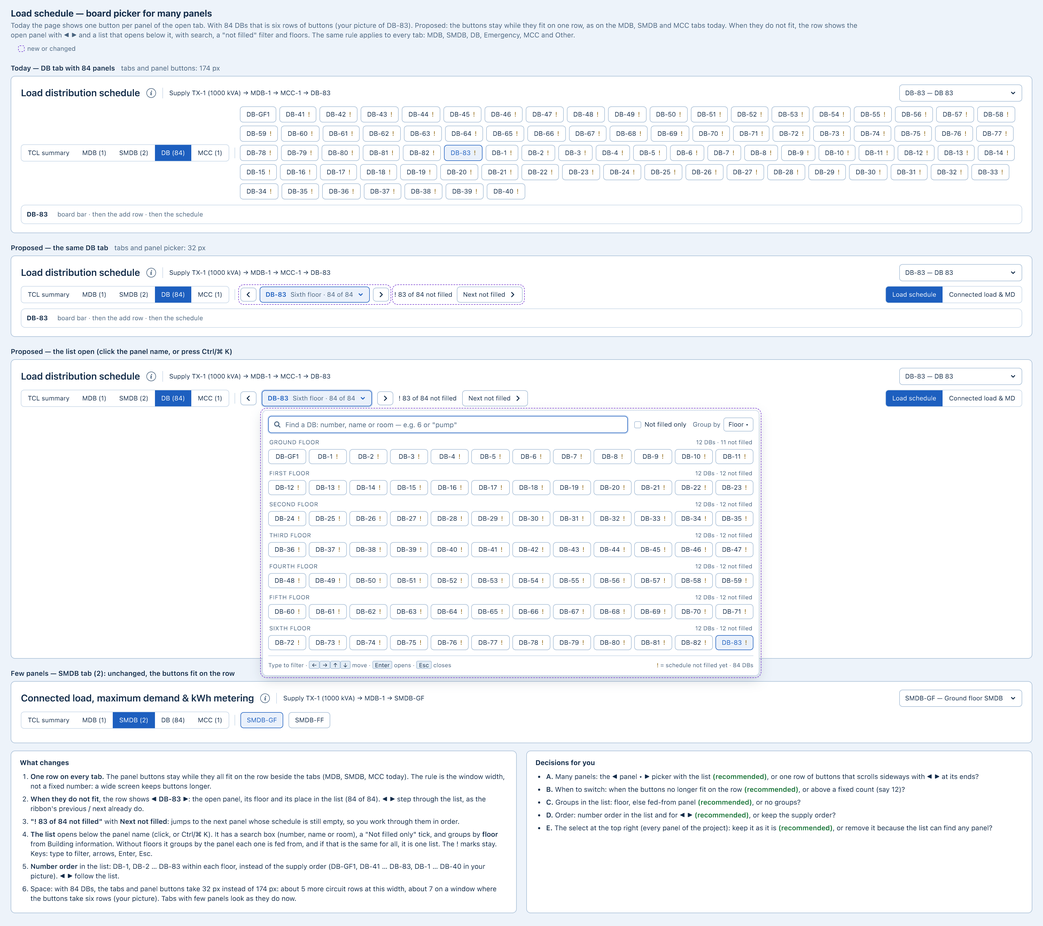
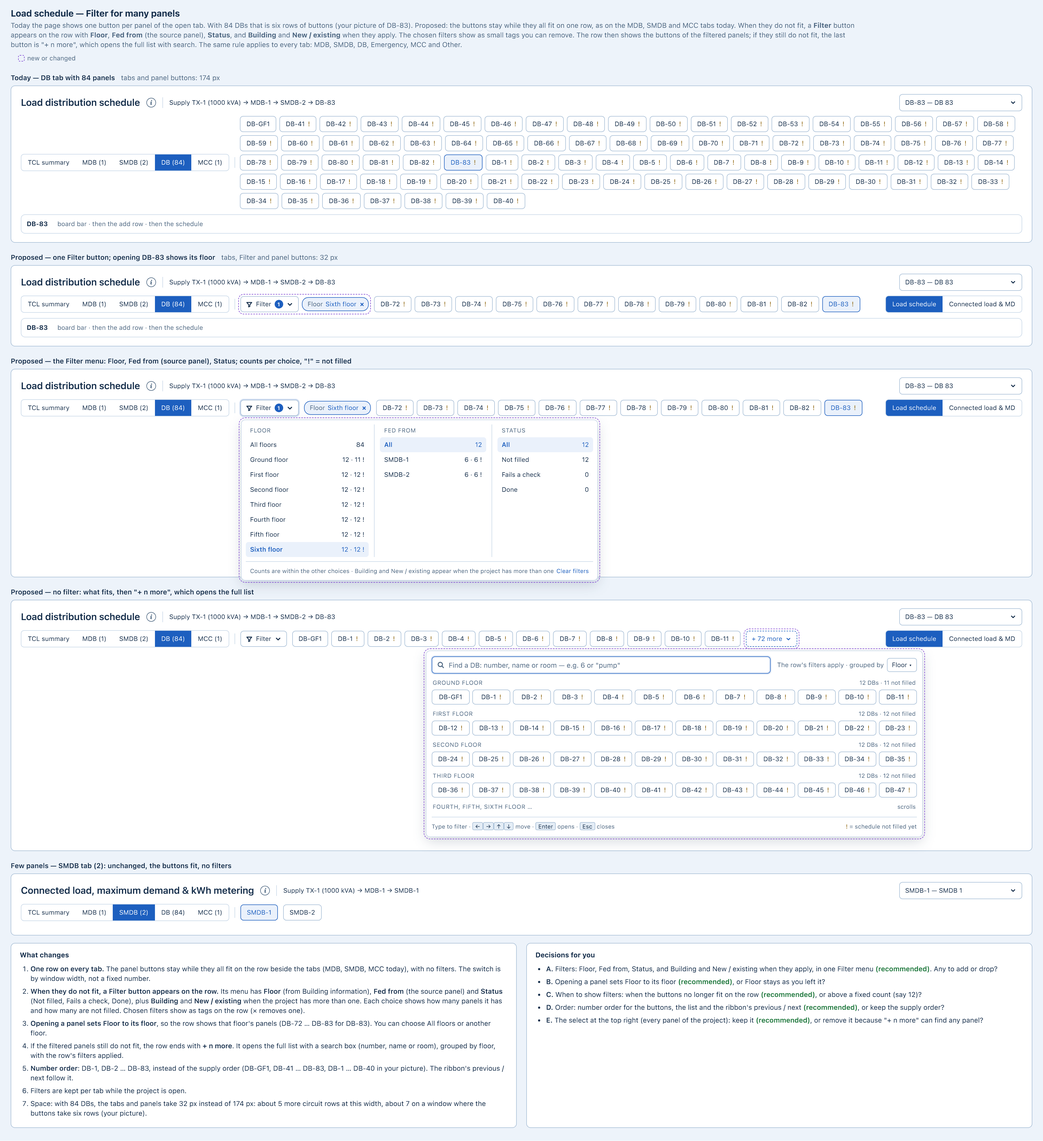
docs: Filter on the row for many panels (floor, fed from, status)
On the user's question, the panel picker becomes a Filter button on the
row when the panel buttons no longer fit: Floor, Fed from (source
panel), Status, and Building and New / existing when they apply, with
counts per choice and removable tags. Opening a panel sets its floor;
"+ n more" opens the searchable list.

diff --git a/docs/mockups/load-schedule-board-picker-mockup.html b/docs/mockups/load-schedule-board-picker-mockup.html
@@ -76,17 +76,48 @@ svg{fill:none;stroke:currentColor;stroke-width:1.7;stroke-linecap:round;stroke-l
 .box li{margin:0 0 6px}
 .box li b{font-weight:600}
 .rec{color:var(--ok);font-weight:600}
+
+/* filters on the row */
+.flt{display:inline-flex;align-items:center;gap:5px;border:1px solid var(--line-strong);border-radius:6px;padding:5px 8px;font-size:12px;background:var(--panel);white-space:nowrap}
+.flt .k{color:var(--mut)}
+.flt.set{border-color:var(--acc);background:#EAF1FB}
+.flt.set b{color:var(--acc);font-weight:600}
+.flt svg{width:11px;height:11px}
+.cnt{font-size:12px;color:var(--mut);white-space:nowrap}
+.more{display:inline-flex;align-items:center;gap:6px;border:1px dashed var(--acc);border-radius:6px;padding:5px 10px;font-size:12px;color:var(--acc);white-space:nowrap}
+.more svg{width:11px;height:11px}
+.fmenu{position:absolute;z-index:3;background:var(--panel);border:1px solid var(--line);border-radius:8px;box-shadow:0 8px 24px rgba(20,45,74,.18);padding:4px;width:250px;font-size:12px}
+.fmenu div{display:flex;justify-content:space-between;gap:12px;padding:6px 10px;border-radius:5px}
+.fmenu div.on{background:#EAF1FB;color:var(--acc);font-weight:600}
+.fmenu div .m{font-weight:400}
+.fmenu .hd{font-size:11px;color:var(--mut);padding:4px 10px 2px;display:block;text-transform:uppercase;letter-spacing:.04em}
+.fmenu hr{border:0;border-top:1px solid var(--line);margin:4px 2px}
+.fbtn{display:inline-flex;align-items:center;gap:6px;border:1px solid var(--line-strong);border-radius:6px;padding:5px 9px;font-size:12px;background:var(--panel);white-space:nowrap}
+.fbtn svg{width:13px;height:13px}
+.fbtn .b{display:inline-block;min-width:16px;height:16px;line-height:16px;border-radius:8px;background:var(--acc);color:#fff;font-size:10px;text-align:center;font-weight:700}
+.pill{display:inline-flex;align-items:center;gap:5px;border:1px solid var(--acc);border-radius:12px;padding:3px 6px 3px 10px;font-size:12px;background:#EAF1FB;color:var(--acc);white-space:nowrap}
+.pill .k{color:var(--mut)}
+.pill svg{width:11px;height:11px}
+.fpanel{position:absolute;z-index:3;background:var(--panel);border:1px solid var(--line);border-radius:8px;box-shadow:0 8px 24px rgba(20,45,74,.18);padding:8px;display:grid;grid-template-columns:230px 210px 190px;gap:0 10px;font-size:12px}
+.fpanel .col{border-left:1px solid var(--line);padding-left:10px}
+.fpanel .col:first-child{border-left:0;padding-left:0}
+.fpanel .o{display:flex;justify-content:space-between;gap:10px;padding:5px 8px;border-radius:5px}
+.fpanel .o.on{background:#EAF1FB;color:var(--acc);font-weight:600}
+.fpanel .o .m{font-weight:400}
+.fpanel .hd{font-size:11px;color:var(--mut);padding:2px 8px 4px;display:block;text-transform:uppercase;letter-spacing:.04em}
+.fpanel .ft{grid-column:1/-1;display:flex;justify-content:space-between;border-top:1px solid var(--line);margin-top:8px;padding:8px 8px 0;color:var(--mut);font-size:11px}
+.fpanel .ft .a{color:var(--acc)}
 </style>
 </head>
 <body>
-<h1>Load schedule — board picker for many panels</h1>
-<p class="lead">Today the page shows one button per panel of the open tab. With 84 DBs that is six rows of buttons (your picture of DB-83). Proposed: the buttons stay while they fit on one row, as on the MDB, SMDB and MCC tabs today. When they do not fit, the row shows the open panel with ◀ ▶ and a list that opens below it, with search, a "not filled" filter and floors. The same rule applies to every tab: MDB, SMDB, DB, Emergency, MCC and Other.</p>
+<h1>Load schedule — Filter for many panels</h1>
+<p class="lead">Today the page shows one button per panel of the open tab. With 84 DBs that is six rows of buttons (your picture of DB-83). Proposed: the buttons stay while they all fit on one row, as on the MDB, SMDB and MCC tabs today. When they do not fit, a <b>Filter</b> button appears on the row with <b>Floor</b>, <b>Fed from</b> (the source panel), <b>Status</b>, and <b>Building</b> and <b>New / existing</b> when they apply. The chosen filters show as small tags you can remove. The row then shows the buttons of the filtered panels; if they still do not fit, the last button is "+ n more", which opens the full list with search. The same rule applies to every tab: MDB, SMDB, DB, Emergency, MCC and Other.</p>
 <p class="legend"><i></i>new or changed</p>
 
 <h2>Today — DB tab with 84 panels <span class="hm" id="h-today"></span></h2>
 <div class="frame">
   <div class="ph">
-    <div class="tl"><h3>Load distribution schedule</h3><span class="info">i</span><span class="vsep"></span><span class="crumb">Supply TX-1 (1000 kVA) → MDB-1 → MCC-1 → DB-83</span></div>
+    <div class="tl"><h3>Load distribution schedule</h3><span class="info">i</span><span class="vsep"></span><span class="crumb">Supply TX-1 (1000 kVA) → MDB-1 → SMDB-2 → DB-83</span></div>
     <span class="sel">DB-83 — DB 83 <svg viewBox="0 0 12 12"><path d="M3 4.5 6 7.5 9 4.5"/></svg></span>
   </div>
   <div class="nav wall" id="today">
@@ -97,68 +128,80 @@ svg{fill:none;stroke:currentColor;stroke-width:1.7;stroke-linecap:round;stroke-l
   <div class="below"><b>DB-83</b> board bar · then the add row · then the schedule</div>
 </div>
 
-<h2>Proposed — the same DB tab <span class="hm" id="h-new"></span></h2>
+<h2>Proposed — one Filter button; opening DB-83 shows its floor <span class="hm" id="h-new"></span></h2>
 <div class="frame">
   <div class="ph">
-    <div class="tl"><h3>Load distribution schedule</h3><span class="info">i</span><span class="vsep"></span><span class="crumb">Supply TX-1 (1000 kVA) → MDB-1 → MCC-1 → DB-83</span></div>
+    <div class="tl"><h3>Load distribution schedule</h3><span class="info">i</span><span class="vsep"></span><span class="crumb">Supply TX-1 (1000 kVA) → MDB-1 → SMDB-2 → DB-83</span></div>
     <span class="sel">DB-83 — DB 83 <svg viewBox="0 0 12 12"><path d="M3 4.5 6 7.5 9 4.5"/></svg></span>
   </div>
   <div class="nav" id="proposed">
     <span class="seg"><span>TCL summary</span><span>MDB (1)</span><span>SMDB (2)</span><span class="on">DB (84)</span><span>MCC (1)</span></span>
     <span class="vsep"></span>
-    <span class="nw" style="display:inline-flex;gap:6px;align-items:center">
-      <span class="chip ic" title="Previous panel"><svg viewBox="0 0 14 14"><path d="M8.5 3 4.5 7l4 4"/></svg></span>
-      <span class="pick"><b>DB-83</b> <span class="m">Sixth floor · 84 of 84</span> <svg viewBox="0 0 12 12"><path d="M3 4.5 6 7.5 9 4.5"/></svg></span>
-      <span class="chip ic" title="Next panel"><svg viewBox="0 0 14 14"><path d="M5.5 3 9.5 7l-4 4"/></svg></span>
-    </span>
-    <span class="nw" style="display:inline-flex;gap:8px;align-items:center">
-      <span class="stat"><span class="w">!</span> 83 of 84 not filled</span>
-      <span class="chip">Next not filled <svg viewBox="0 0 14 14"><path d="M5.5 3 9.5 7l-4 4"/></svg></span>
-    </span>
+    <span class="nw" style="display:inline-flex;gap:6px;align-items:center"><span class="fbtn"><svg viewBox="0 0 14 14"><path d="M2 3h10L8.2 7.6V11L5.8 12V7.6Z"/></svg> Filter <span class="b">1</span> <svg viewBox="0 0 12 12"><path d="M3 4.5 6 7.5 9 4.5"/></svg></span><span class="pill"><span class="k">Floor</span> Sixth floor <svg viewBox="0 0 12 12"><path d="m3.5 3.5 5 5m0-5-5 5"/></svg></span></span>
+    <div class="chips" id="floor6"></div>
     <span class="sp"></span>
     <span class="seg"><span class="on">Load schedule</span><span>Connected load &amp; MD</span></span>
   </div>
   <div class="below"><b>DB-83</b> board bar · then the add row · then the schedule</div>
 </div>
 
-<h2>Proposed — the list open (click the panel name, or press Ctrl/⌘ K)</h2>
-<div class="frame" style="height:560px">
+<h2>Proposed — the Filter menu: Floor, Fed from (source panel), Status; counts per choice, "!" = not filled</h2>
+<div class="frame" style="height:390px">
   <div class="ph">
-    <div class="tl"><h3>Load distribution schedule</h3><span class="info">i</span><span class="vsep"></span><span class="crumb">Supply TX-1 (1000 kVA) → MDB-1 → MCC-1 → DB-83</span></div>
+    <div class="tl"><h3>Load distribution schedule</h3><span class="info">i</span><span class="vsep"></span><span class="crumb">Supply TX-1 (1000 kVA) → MDB-1 → SMDB-2 → DB-83</span></div>
     <span class="sel">DB-83 — DB 83 <svg viewBox="0 0 12 12"><path d="M3 4.5 6 7.5 9 4.5"/></svg></span>
   </div>
   <div class="nav">
     <span class="seg"><span>TCL summary</span><span>MDB (1)</span><span>SMDB (2)</span><span class="on">DB (84)</span><span>MCC (1)</span></span>
     <span class="vsep"></span>
-    <span class="chip ic"><svg viewBox="0 0 14 14"><path d="M8.5 3 4.5 7l4 4"/></svg></span>
-    <span class="pick" id="pickBtn" style="box-shadow:0 0 0 2px rgba(29,95,191,.2)"><b>DB-83</b> <span class="m">Sixth floor · 84 of 84</span> <svg viewBox="0 0 12 12"><path d="M3 4.5 6 7.5 9 4.5"/></svg></span>
-    <span class="chip ic"><svg viewBox="0 0 14 14"><path d="M5.5 3 9.5 7l-4 4"/></svg></span>
-    <span class="stat"><span class="w">!</span> 83 of 84 not filled</span>
-    <span class="chip">Next not filled <svg viewBox="0 0 14 14"><path d="M5.5 3 9.5 7l-4 4"/></svg></span>
+    <span class="fbtn" id="fBtn" style="box-shadow:0 0 0 2px rgba(29,95,191,.2)"><svg viewBox="0 0 14 14"><path d="M2 3h10L8.2 7.6V11L5.8 12V7.6Z"/></svg> Filter <span class="b">1</span> <svg viewBox="0 0 12 12"><path d="M3 4.5 6 7.5 9 4.5"/></svg></span><span class="pill"><span class="k">Floor</span> Sixth floor <svg viewBox="0 0 12 12"><path d="m3.5 3.5 5 5m0-5-5 5"/></svg></span>
+    <div class="chips" id="floor6b"></div>
+    <span class="sp"></span>
+    <span class="seg"><span class="on">Load schedule</span><span>Connected load &amp; MD</span></span>
+  </div>
+  <div class="fpanel nw" id="fPanel">
+    <div class="col"><span class="hd">Floor</span><div class="o"><span>All floors</span><span class="m">84</span></div><div class="o"><span>Ground floor</span><span class="m">12 · 11 !</span></div><div class="o"><span>First floor</span><span class="m">12 · 12 !</span></div><div class="o"><span>Second floor</span><span class="m">12 · 12 !</span></div><div class="o"><span>Third floor</span><span class="m">12 · 12 !</span></div><div class="o"><span>Fourth floor</span><span class="m">12 · 12 !</span></div><div class="o"><span>Fifth floor</span><span class="m">12 · 12 !</span></div><div class="o on"><span>Sixth floor</span><span class="m">12 · 12 !</span></div></div>
+    <div class="col"><span class="hd">Fed from</span><div class="o on"><span>All</span><span class="m">12</span></div><div class="o"><span>SMDB-1</span><span class="m">6 · 6 !</span></div><div class="o"><span>SMDB-2</span><span class="m">6 · 6 !</span></div></div>
+    <div class="col"><span class="hd">Status</span><div class="o on"><span>All</span><span class="m">12</span></div><div class="o"><span>Not filled</span><span class="m">12</span></div><div class="o"><span>Fails a check</span><span class="m">0</span></div><div class="o"><span>Done</span><span class="m">0</span></div></div>
+    <div class="ft"><span>Counts are within the other choices · Building and New / existing appear when the project has more than one</span><span class="a">Clear filters</span></div>
+  </div>
+</div>
+
+<h2>Proposed — no filter: what fits, then "+ n more", which opens the full list</h2>
+<div class="frame" style="height:470px">
+  <div class="ph">
+    <div class="tl"><h3>Load distribution schedule</h3><span class="info">i</span><span class="vsep"></span><span class="crumb">Supply TX-1 (1000 kVA) → MDB-1 → SMDB-2 → DB-83</span></div>
+    <span class="sel">DB-83 — DB 83 <svg viewBox="0 0 12 12"><path d="M3 4.5 6 7.5 9 4.5"/></svg></span>
+  </div>
+  <div class="nav">
+    <span class="seg"><span>TCL summary</span><span>MDB (1)</span><span>SMDB (2)</span><span class="on">DB (84)</span><span>MCC (1)</span></span>
+    <span class="vsep"></span>
+    <span class="fbtn"><svg viewBox="0 0 14 14"><path d="M2 3h10L8.2 7.6V11L5.8 12V7.6Z"/></svg> Filter <svg viewBox="0 0 12 12"><path d="M3 4.5 6 7.5 9 4.5"/></svg></span>
+    <div class="chips" id="allfit"></div>
+    <span class="more nw" id="moreBtn">+ 72 more <svg viewBox="0 0 12 12"><path d="M3 4.5 6 7.5 9 4.5"/></svg></span>
     <span class="sp"></span>
     <span class="seg"><span class="on">Load schedule</span><span>Connected load &amp; MD</span></span>
   </div>
   <div class="pop nw" id="pop">
     <div class="top">
       <span class="search"><svg viewBox="0 0 14 14"><circle cx="6" cy="6" r="4"/><path d="m9 9 3 3"/></svg><span class="ph">Find a DB: number, name or room — e.g. 6 or "pump"</span></span>
-      <span class="tick"><i></i> Not filled only</span>
-      <span class="by">Group by <span class="s">Floor ▾</span></span>
+      <span class="by">The row's filters apply · grouped by <span class="s">Floor ▾</span></span>
     </div>
     <div id="groups"></div>
-    <div class="foot"><span>Type to filter · <kbd>←</kbd><kbd>→</kbd><kbd>↑</kbd><kbd>↓</kbd> move · <kbd>Enter</kbd> opens · <kbd>Esc</kbd> closes</span><span><span class="w" style="color:var(--warn)">!</span> = schedule not filled yet · 84 DBs</span></div>
+    <div class="foot"><span>Type to filter · <kbd>←</kbd><kbd>→</kbd><kbd>↑</kbd><kbd>↓</kbd> move · <kbd>Enter</kbd> opens · <kbd>Esc</kbd> closes</span><span><span style="color:var(--warn)">!</span> = schedule not filled yet</span></div>
   </div>
 </div>
 
-<h2>Few panels — SMDB tab (2): unchanged, the buttons fit on the row</h2>
+<h2>Few panels — SMDB tab (2): unchanged, the buttons fit, no filters</h2>
 <div class="frame">
   <div class="ph">
-    <div class="tl"><h3>Connected load, maximum demand &amp; kWh metering</h3><span class="info">i</span><span class="vsep"></span><span class="crumb">Supply TX-1 (1000 kVA) → MDB-1 → SMDB-GF</span></div>
-    <span class="sel">SMDB-GF — Ground floor SMDB <svg viewBox="0 0 12 12"><path d="M3 4.5 6 7.5 9 4.5"/></svg></span>
+    <div class="tl"><h3>Connected load, maximum demand &amp; kWh metering</h3><span class="info">i</span><span class="vsep"></span><span class="crumb">Supply TX-1 (1000 kVA) → MDB-1 → SMDB-1</span></div>
+    <span class="sel">SMDB-1 — SMDB 1 <svg viewBox="0 0 12 12"><path d="M3 4.5 6 7.5 9 4.5"/></svg></span>
   </div>
   <div class="nav">
     <span class="seg"><span>TCL summary</span><span>MDB (1)</span><span class="on">SMDB (2)</span><span>DB (84)</span><span>MCC (1)</span></span>
     <span class="vsep"></span>
-    <span class="chip on">SMDB-GF</span><span class="chip">SMDB-FF</span>
+    <span class="chip on">SMDB-1</span><span class="chip">SMDB-2</span>
   </div>
 </div>
 
@@ -166,49 +209,50 @@ svg{fill:none;stroke:currentColor;stroke-width:1.7;stroke-linecap:round;stroke-l
   <div class="box">
     <h4>What changes</h4>
     <ol>
-      <li><b>One row on every tab.</b> The panel buttons stay while they all fit on the row beside the tabs (MDB, SMDB, MCC today). The rule is the window width, not a fixed number: a wide screen keeps buttons longer.</li>
-      <li><b>When they do not fit</b>, the row shows <b>◀ DB-83 ▶</b>: the open panel, its floor and its place in the list (84 of 84). ◀ ▶ step through the list, as the ribbon's previous / next already do.</li>
-      <li><b>"! 83 of 84 not filled"</b> with <b>Next not filled</b>: jumps to the next panel whose schedule is still empty, so you work through them in order.</li>
-      <li><b>The list</b> opens below the panel name (click, or Ctrl/⌘ K). It has a search box (number, name or room), a "Not filled only" tick, and groups by <b>floor</b> from Building information. Without floors it groups by the panel each one is fed from, and if that is the same for all, it is one list. The ! marks stay. Keys: type to filter, arrows, Enter, Esc.</li>
-      <li><b>Number order</b> in the list: DB-1, DB-2 … DB-83 within each floor, instead of the supply order (DB-GF1, DB-41 … DB-83, DB-1 … DB-40 in your picture). ◀ ▶ follow the list.</li>
-      <li>Space: with 84 DBs, the tabs and panel buttons take <span id="h-sum"></span>: about 5 more circuit rows at this width, about 7 on a window where the buttons take six rows (your picture). Tabs with few panels look as they do now.</li>
+      <li><b>One row on every tab.</b> The panel buttons stay while they all fit on the row beside the tabs (MDB, SMDB, MCC today), with no filters. The switch is by window width, not a fixed number.</li>
+      <li><b>When they do not fit, a Filter button appears on the row.</b> Its menu has <b>Floor</b> (from Building information), <b>Fed from</b> (the source panel) and <b>Status</b> (Not filled, Fails a check, Done), plus <b>Building</b> and <b>New / existing</b> when the project has more than one. Each choice shows how many panels it has and how many are not filled. Chosen filters show as tags on the row (× removes one).</li>
+      <li><b>Opening a panel sets Floor to its floor</b>, so the row shows that floor's panels (DB-72 … DB-83 for DB-83). You can choose All floors or another floor.</li>
+      <li>If the filtered panels still do not fit, the row ends with <b>+ n more</b>. It opens the full list with a search box (number, name or room), grouped by floor, with the row's filters applied.</li>
+      <li><b>Number order</b>: DB-1, DB-2 … DB-83, instead of the supply order (DB-GF1, DB-41 … DB-83, DB-1 … DB-40 in your picture). The ribbon's previous / next follow it.</li>
+      <li>Filters are kept per tab while the project is open.</li>
+      <li>Space: with 84 DBs, the tabs and panels take <span id="h-sum"></span>.</li>
     </ol>
   </div>
   <div class="box">
     <h4>Decisions for you</h4>
     <ul>
-      <li><b>A.</b> Many panels: the ◀ panel ▾ ▶ picker with the list <span class="rec">(recommended)</span>, or one row of buttons that scrolls sideways with ◀ ▶ at its ends?</li>
-      <li><b>B.</b> When to switch: when the buttons no longer fit on the row <span class="rec">(recommended)</span>, or above a fixed count (say 12)?</li>
-      <li><b>C.</b> Groups in the list: floor, else fed-from panel <span class="rec">(recommended)</span>, or no groups?</li>
-      <li><b>D.</b> Order: number order in the list and for ◀ ▶ <span class="rec">(recommended)</span>, or keep the supply order?</li>
-      <li><b>E.</b> The select at the top right (every panel of the project): keep it as it is <span class="rec">(recommended)</span>, or remove it because the list can find any panel?</li>
+      <li><b>A.</b> Filters: Floor, Fed from, Status, and Building and New / existing when they apply, in one Filter menu <span class="rec">(recommended)</span>. Any to add or drop?</li>
+      <li><b>B.</b> Opening a panel sets Floor to its floor <span class="rec">(recommended)</span>, or Floor stays as you left it?</li>
+      <li><b>C.</b> When to show filters: when the buttons no longer fit on the row <span class="rec">(recommended)</span>, or above a fixed count (say 12)?</li>
+      <li><b>D.</b> Order: number order for the buttons, the list and the ribbon's previous / next <span class="rec">(recommended)</span>, or keep the supply order?</li>
+      <li><b>E.</b> The select at the top right (every panel of the project): keep it <span class="rec">(recommended)</span>, or remove it because "+ n more" can find any panel?</li>
     </ul>
   </div>
 </div>
 
 <script>
-// Today's wall, in the order of your picture: DB-GF1, DB-41 … DB-83, DB-1 … DB-40; only DB-GF1 is filled.
+const chip = (id, on) => `<span class="chip${on ? ' on' : ''}">${id}${id === 'DB-GF1' ? '' : ' <span class="w">!</span>'}</span>`;
 const order = ['DB-GF1', ...Array.from({ length: 43 }, (_, i) => `DB-${41 + i}`), ...Array.from({ length: 40 }, (_, i) => `DB-${1 + i}`)];
-document.getElementById('wall').innerHTML = order.map((id) => `<span class="chip${id === 'DB-83' ? ' on' : ''}">${id}${id === 'DB-GF1' ? '' : ' <span class="w">!</span>'}</span>`).join('');
-
-// The list: number order, 12 per floor.
-const floors = ['Ground floor', 'First floor', 'Second floor', 'Third floor', 'Fourth floor', 'Fifth floor', 'Sixth floor'];
+document.getElementById('wall').innerHTML = order.map((id) => chip(id, id === 'DB-83')).join('');
 const num = ['DB-GF1', ...Array.from({ length: 83 }, (_, i) => `DB-${1 + i}`)];
-document.getElementById('groups').innerHTML = floors.map((f, k) => {
+const sixth = num.slice(72, 84).map((id) => chip(id, id === 'DB-83')).join('');
+document.getElementById('floor6').innerHTML = sixth;
+document.getElementById('floor6b').innerHTML = sixth;
+document.getElementById('allfit').innerHTML = num.slice(0, 12).map((id) => chip(id, false)).join('');
+const floors = ['Ground floor', 'First floor', 'Second floor', 'Third floor', 'Fourth floor', 'Fifth floor', 'Sixth floor'];
+document.getElementById('groups').innerHTML = floors.slice(0, 4).map((f, k) => {
   const ids = num.slice(k * 12, k * 12 + 12);
   const open = ids.filter((id) => id !== 'DB-GF1').length;
-  return `<div class="grp"><span>${f}</span><span class="c">${ids.length} DBs${open ? ` · ${open} not filled` : ''}</span></div><div class="grid">${ids.map((id) => `<span class="chip${id === 'DB-83' ? ' on' : ''}${id === 'DB-84' ? ' kb' : ''}">${id}${id === 'DB-GF1' ? '' : ' <span class="w">!</span>'}</span>`).join('')}</div>`;
-}).join('');
-const btn = document.getElementById('pickBtn'), pop = document.getElementById('pop'), fr = pop.parentElement;
-pop.style.left = (btn.getBoundingClientRect().left - fr.getBoundingClientRect().left) + 'px';
-pop.style.top = (btn.getBoundingClientRect().bottom - fr.getBoundingClientRect().top + 6) + 'px';
-
-// Heights of the tabs-and-panels row, measured.
+  return `<div class="grp"><span>${f}</span><span class="c">${ids.length} DBs · ${open} not filled</span></div><div class="grid">${ids.map((id) => chip(id, false)).join('')}</div>`;
+}).join('') + '<div class="grp"><span>Fourth, Fifth, Sixth floor …</span><span class="c">scrolls</span></div>';
+const at = (el, ref, dy = 6) => { const fr = el.parentElement.getBoundingClientRect(), r = ref.getBoundingClientRect(); el.style.left = (r.left - fr.left) + 'px'; el.style.top = (r.bottom - fr.top + dy) + 'px'; };
+at(document.getElementById('fPanel'), document.getElementById('fBtn'));
+const mb = document.getElementById('moreBtn'), pop = document.getElementById('pop');
+at(pop, mb); pop.style.left = Math.max(0, parseFloat(pop.style.left) - 600) + 'px';
 const hT = document.getElementById('today').offsetHeight, hN = document.getElementById('proposed').offsetHeight;
 document.getElementById('h-today').textContent = `tabs and panel buttons: ${hT} px`;
-document.getElementById('h-new').textContent = `tabs and panel picker: ${hN} px`;
-document.getElementById('h-sum').textContent = `${hN} px instead of ${hT} px`;
-document.title = `${hT}/${hN}`;
+document.getElementById('h-new').textContent = `tabs, Filter and panel buttons: ${hN} px`;
+document.getElementById('h-sum').textContent = `${hN} px instead of ${hT} px: about 5 more circuit rows at this width, about 7 on a window where the buttons take six rows (your picture)`;
 document.head.appendChild(document.createElement('style')).textContent = '@page{size:1952px ' + (Math.ceil(document.documentElement.scrollHeight) + 4) + 'px;margin:0}';
 </script>
 </body>

diff --git a/docs/notes/Future development/UI UX proposals - 2026-11-18 - Load schedule board picker.md b/docs/notes/Future development/UI UX proposals - 2026-11-18 - Load schedule board picker.md
@@ -1,41 +1,44 @@
-# UI UX proposal – Load schedule board picker for many panels (2026-11-18)
+# UI UX proposal – Load schedule Filter for many panels (2026-11-18)
 
 Status: **proposed**, waiting for the user's decisions A–E. Nothing is built.
 
 Mockup: `docs/mockups/load-schedule-board-picker-mockup.html` (image: `load-schedule-board-picker-mockup.png`).
 
-![Load schedule with a board picker instead of one button per panel](../../mockups/load-schedule-board-picker-mockup.png)
+![Load schedule with a Filter button instead of six rows of panel buttons](../../mockups/load-schedule-board-picker-mockup.png)
 
 ## Today
 
 The user sent a picture of the DB tab of a project with 84 DBs (DB-83 open). The page shows one button per panel of the open tab (`.ls-panels` in `src/components/docs/LoadScheduleView.tsx`).
 - 84 buttons wrap into six rows beside the tabs, so the schedule starts far down the page. At 1952 px wide the mockup measures 174 px for the tabs and buttons; the user's window shows six rows.
 - The buttons follow the supply order (`scheduleGroups`, `src/model/scheduleGroups.ts`): DB-GF1, DB-41 … DB-83, DB-1 … DB-40, which is hard to scan.
-- Almost every button carries "!" (schedule not filled yet), so the marks say little.
 - The same happens on any tab with many panels (SMDB, MCC, Emergency, Other).
 
 ## Proposed (every tab of the page)
 
-1. **One row on every tab.** The panel buttons stay while they all fit on the row beside the tabs, as on the MDB, SMDB and MCC tabs today. The switch is by window width, not a fixed count.
-2. **When they do not fit**, the row shows **◀ panel ▾ ▶**: the open panel, its floor and its place in the list (e.g. "DB-83 · Sixth floor · 84 of 84"). ◀ ▶ step through the list, as the ribbon's previous / next do.
-3. **"! 83 of 84 not filled"** and **Next not filled**: jump to the next panel whose schedule is empty (`incompleteSchedules`).
-4. **The list** opens below the panel name (click, or Ctrl/⌘ K). It has:
-   - a search box (number, name or room);
-   - a "Not filled only" tick;
-   - groups by floor from Building information (`Board.level`), else by the fed-from panel (`upstreamId`), else one list;
-   - the "!" marks;
-   - keys: type to filter, arrows, Enter, Esc.
-5. **Number order** in the list (DB-1, DB-2 … DB-83 within a floor). ◀ ▶ follow the list.
-6. Space: 174 px → 32 px at 1952 px wide, about 5 more circuit rows; about 7 on the user's window.
+First version: a ◀ panel ▾ ▶ picker. On the user's question ("keep source panel, floor and other applicable in the filter when getting bigger than one row") it became a Filter on the row:
+
+1. **One row on every tab.** The panel buttons stay while they all fit on the row beside the tabs, as on the MDB, SMDB and MCC tabs today, with no Filter. The switch is by window width, not a fixed count.
+2. **When they do not fit, a Filter button appears on the row.** Its menu has columns:
+   - **Floor**, from Building information (`Board.level`);
+   - **Fed from**, the source panel (`upstreamId`);
+   - **Status**: Not filled (`incompleteSchedules`), Fails a check (`scheduleCheck`), Done;
+   - **Building** and **New / existing** (`Board.existing`), only when the project has more than one.
+
+   Each choice shows how many panels it has and how many are not filled, within the other choices. Chosen filters show as tags beside the button (× removes one); "Clear filters" resets.
+3. **Opening a panel sets Floor to its floor**, so the row shows that floor's panels (DB-72 … DB-83 for DB-83).
+4. If the filtered panels still do not fit, the row ends with **+ n more**. It opens the full list: a search box (number, name or room), grouped by floor, with the row's filters applied, the "!" marks, and keys (type, arrows, Enter, Esc).
+5. **Number order** (DB-1, DB-2 … DB-83) for the buttons, the list and the ribbon's previous / next.
+6. Filters are kept per tab while the project is open.
+7. Space: 174 px → 32 px at 1952 px wide, about 5 more circuit rows; about 7 on the user's window.
 
 ## Decisions for the user
 
-- **A.** Many panels: the ◀ panel ▾ ▶ picker with the list (recommended), or one row of buttons that scrolls sideways with ◀ ▶ at its ends?
-- **B.** When to switch: when the buttons no longer fit on the row (recommended), or above a fixed count (say 12)?
-- **C.** Groups in the list: floor, else fed-from panel (recommended), or no groups?
-- **D.** Order: number order in the list and for ◀ ▶ (recommended), or keep the supply order?
-- **E.** The select at the top right (every panel of the project): keep it (recommended), or remove it because the list can find any panel?
+- **A.** Filters: Floor, Fed from, Status, and Building and New / existing when they apply, in one Filter menu (recommended). Any to add or drop?
+- **B.** Opening a panel sets Floor to its floor (recommended), or Floor stays as you left it?
+- **C.** When to show the Filter: when the buttons no longer fit on the row (recommended), or above a fixed count (say 12)?
+- **D.** Order: number order for the buttons, the list and the ribbon's previous / next (recommended), or keep the supply order?
+- **E.** The select at the top right (every panel of the project): keep it (recommended), or remove it because "+ n more" can find any panel?
 
 ## Build steps (after approval)
 
-1. The picker and list in `LoadScheduleView.tsx` (a small `BoardPicker` component), the fit measurement on the `.ls-nav` row, Next not filled, and tests. Screen only: the data and exports do not change.
+1. The Filter menu, tags, fit measurement on the `.ls-nav` row, "+ n more" list, number order, and tests. Screen only: the data and exports do not change.
